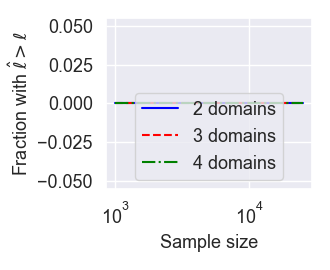
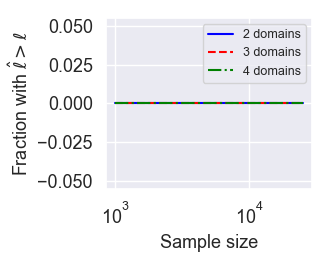
adjusted fontsize

diff --git a/experiments/utils.py b/experiments/utils.py
@@ -67,7 +67,8 @@ def get_statistics(info):
         avg_number_shared[s_ix] = number_shared.mean()
     return (avg_number_shared, too_many_shared_rate, mixing_error_median, graph_error_median)
 
-def plot(nsamples_list, stats2, stats3, stats4, ylabel="Score", path="test.png", fontsize=13, ylim=None):
+def plot(nsamples_list, stats2, stats3, stats4, ylabel="Score", path="test.png", 
+            fontsize=13, ylim=None, legendfontsize=13):
     sns.set()
     plt.figure(figsize=(3.3,2.7))
     plt.clf()
@@ -79,7 +80,7 @@ def plot(nsamples_list, stats2, stats3, stats4, ylabel="Score", path="test.png",
     plt.xscale("log")
     plt.xlabel("Sample size", fontsize=fontsize)
     plt.ylabel(ylabel, fontsize=fontsize)
-    plt.legend(fontsize=fontsize)
+    plt.legend(fontsize=legendfontsize)
     plt.xticks(fontsize=fontsize)
     plt.yticks(fontsize=fontsize)
     plt.tight_layout()

diff --git a/experiments/results_l=5.py b/experiments/results_l=5.py
@@ -32,7 +32,7 @@ plot(nsamples_list, avg_number_shared2, avg_number_shared3, avg_number_shared4,
 
 plot(nsamples_list, too_many_shared_rate2, too_many_shared_rate3, too_many_shared_rate4,
                 ylabel="Fraction with $\hat{\ell} > \ell$",
-                path=f"results-paper/too-many-shared-nodes_l={l}_d={d}.png")
+                path=f"results-paper/too-many-shared-nodes_l={l}_d={d}.png", legendfontsize=9)
 
 plot(nsamples_list, mixing_error_rate2, mixing_error_rate3, mixing_error_rate4,
                 ylabel="score$_B$",
